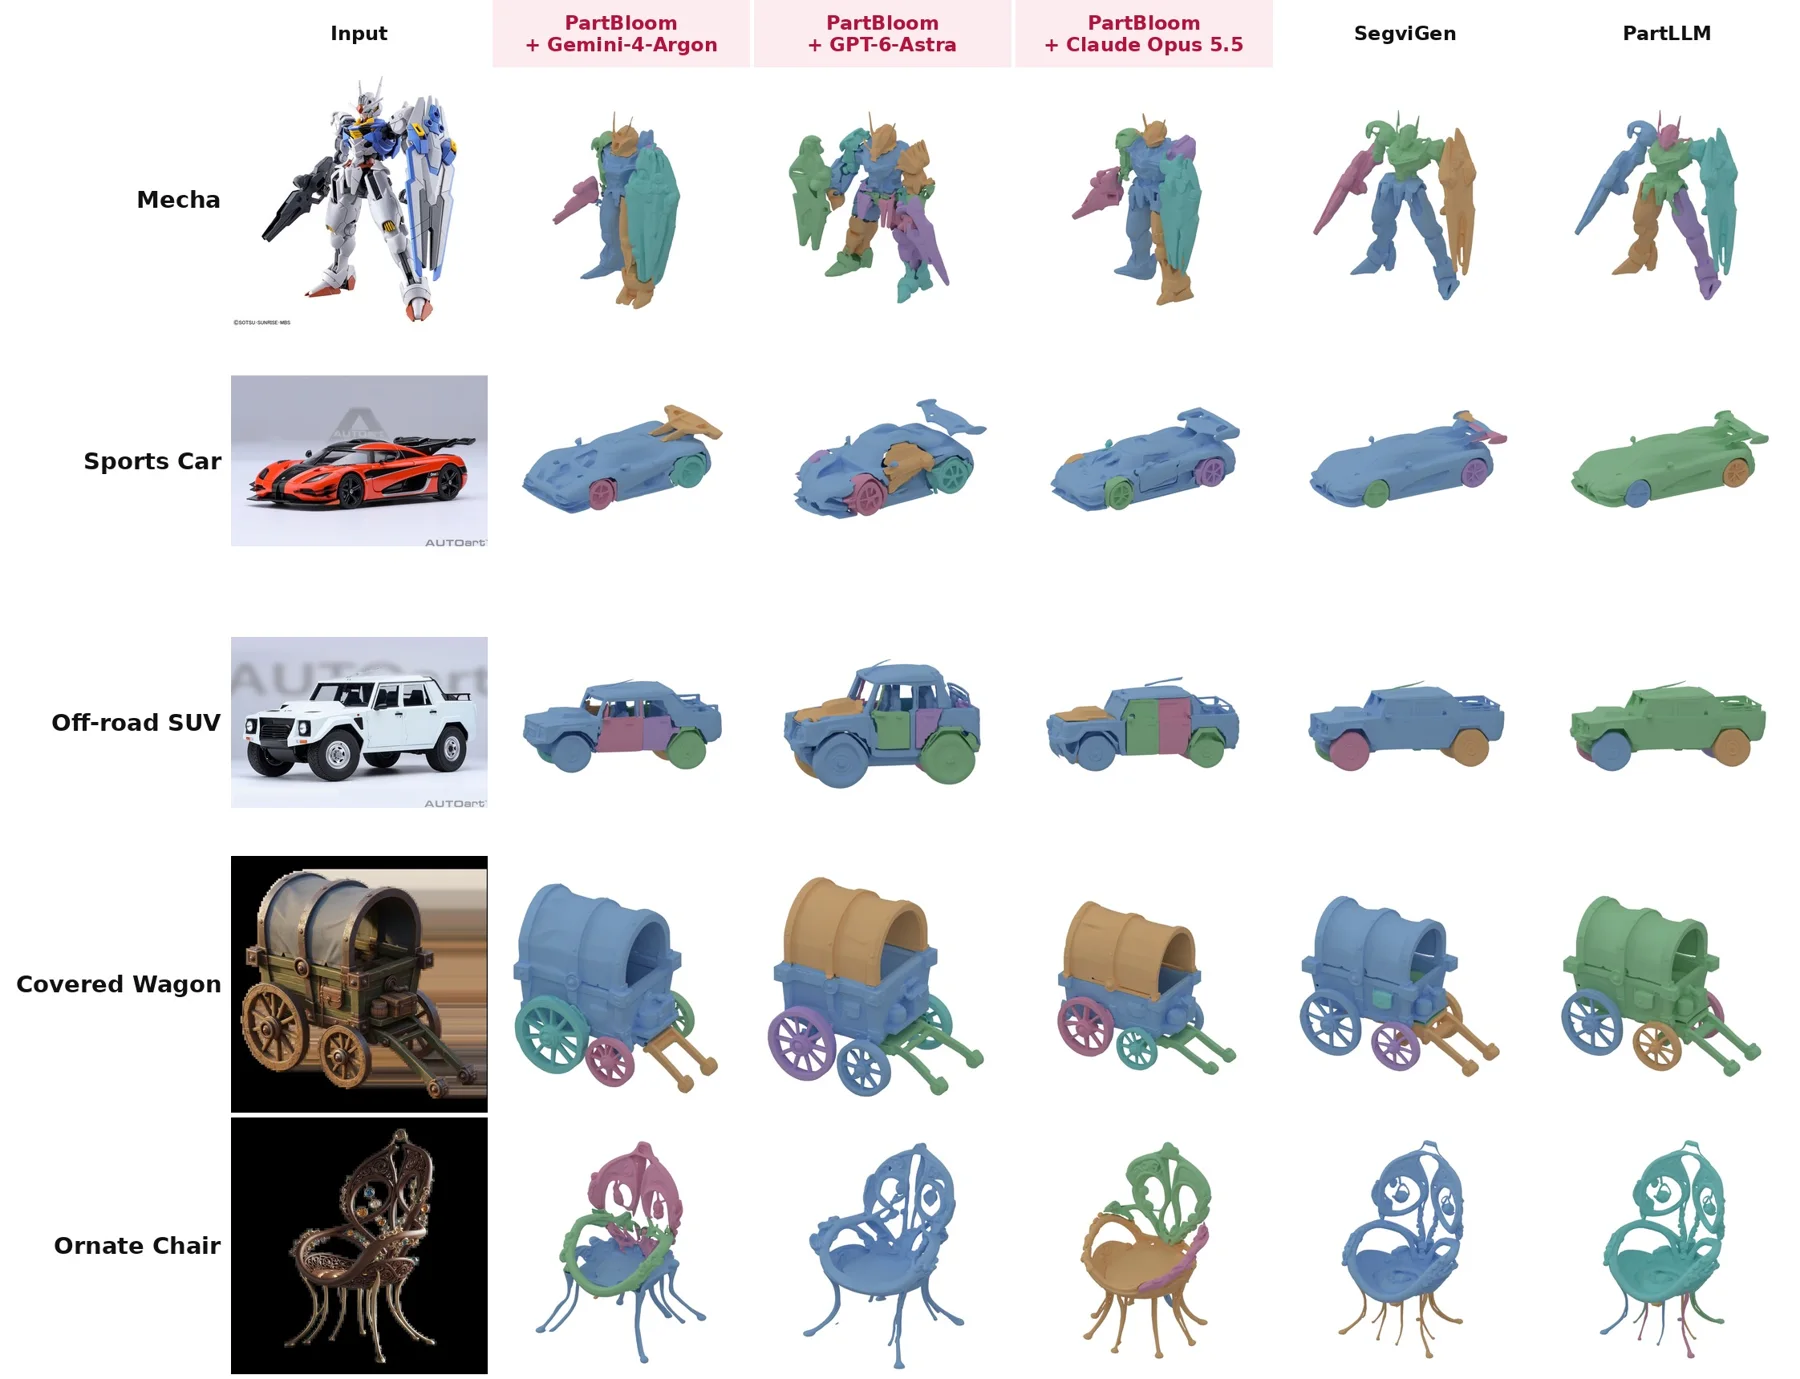
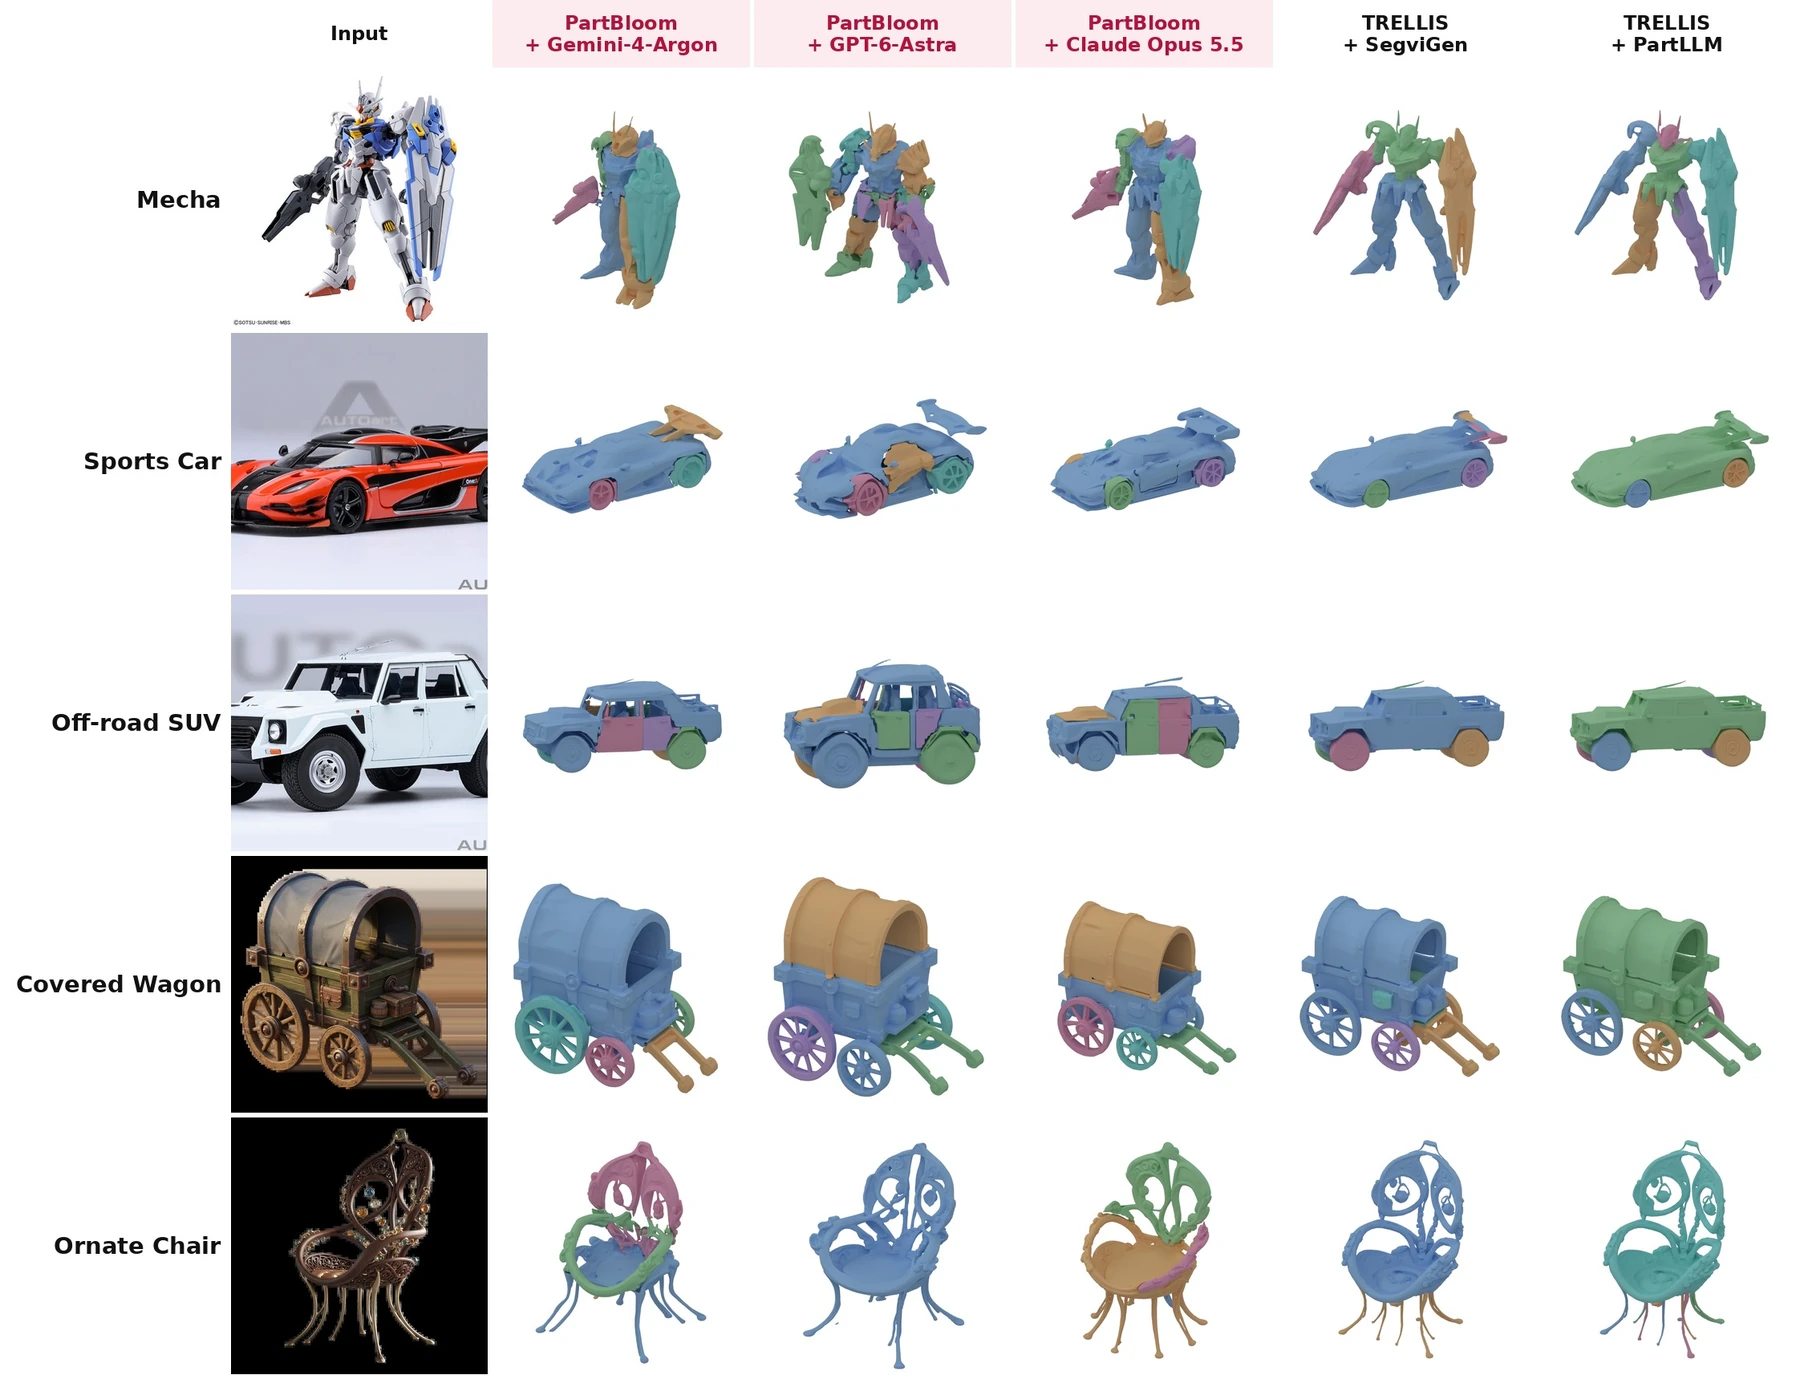
Label segmentation baselines as TRELLIS pipelines

Changed region(s): [[0.1244, 0.2183, 0.28, 0.6236], [0.9022, 0.0, 0.9644, 0.0624], [0.7467, 0.0, 0.8089, 0.0624]]

diff --git a/index.html b/index.html
@@ -92,14 +92,15 @@
       <h2>Native Part Decomposition</h2>
       <p class="lede">
         PartBloom generates parts natively. Each part is split by function and independent motion, and small fixed
-        attachments stay with the part they belong to. We compare against dedicated 3D part-segmentation methods,
-        SegviGen and PartLLM (general granularity), which split a finished asset after the fact. Colors mark parts.
+        attachments stay with the part they belong to. For the two segmentation baselines, TRELLIS first generates
+        a 3D asset from the input image; SegviGen or PartLLM then splits that asset into parts. We label these pipelines
+        <b>TRELLIS + SegviGen</b> and <b>TRELLIS + PartLLM</b> (general granularity). Colors mark parts.
         To explore our parts in 3D, use <b>Parts</b> mode or the exploded view above.
       </p>
       <div class="figure-stack">
-        <img src="assets/parts/parts_01.webp" alt="Part decomposition comparison, rows 1 to 5" loading="lazy">
-        <img src="assets/parts/parts_02.webp" alt="Part decomposition comparison, rows 6 to 10" loading="lazy">
-        <img src="assets/parts/parts_03.webp" alt="Part decomposition comparison, rows 11 to 14" loading="lazy">
+        <img src="assets/parts/parts_01.webp?v=2" alt="Part decomposition comparison, rows 1 to 5" loading="lazy">
+        <img src="assets/parts/parts_02.webp?v=2" alt="Part decomposition comparison, rows 6 to 10" loading="lazy">
+        <img src="assets/parts/parts_03.webp?v=2" alt="Part decomposition comparison, rows 11 to 14" loading="lazy">
       </div>
     </section>
 
